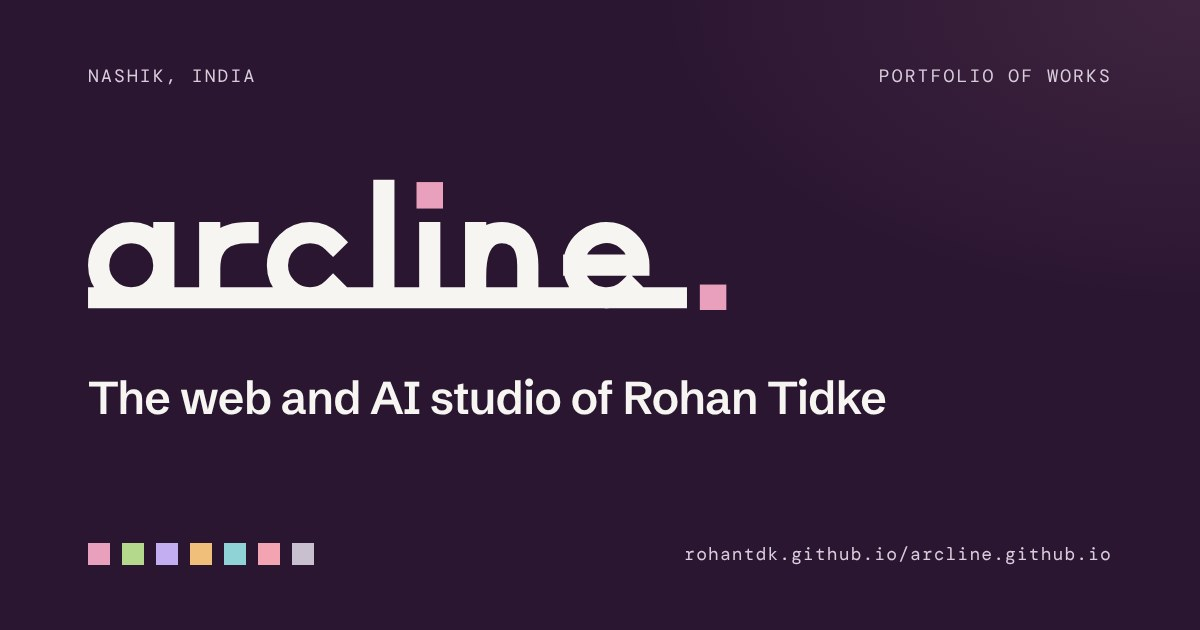
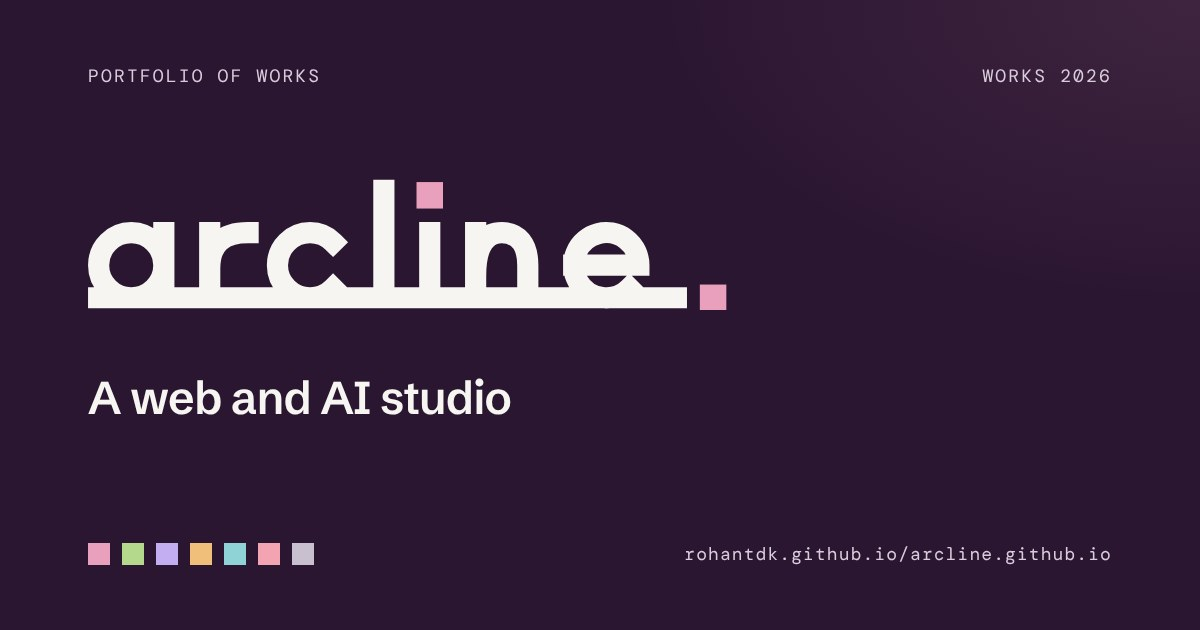
Speak as a studio, not one person; never name the studio's location
Copy moves from 'I' to 'we'/'Arcline'. Rohan is named once, as founder,
in About (and in the meta description); Arcline brings in specialist
partners when a project needs them. No team is claimed beyond that.

The studio's location is removed everywhere: hero label, About, the
Contact 'Studio' row, title and share tags, the share image, and the
docs (the palette is renamed 'Vineyard'). Client cities are dropped
from project cards, the client region from About, and the 'Marathi'
search hint is swapped for 'Next.js'. 'Clients in India and Germany'
and country-level project facts stay. Numbers and project facts are
unchanged.

Claude-Session: https://claude.ai/code/session_01XoSaEchENWHWTGNXH3eUxF

Changed region(s): [[0.0617, 0.6032, 0.74, 0.6635], [0.0617, 0.0905, 0.2775, 0.1508], [0.74, 0.0905, 0.925, 0.1508]]

diff --git a/index.html b/index.html
@@ -3,17 +3,17 @@
 <head>
   <meta charset="UTF-8" />
   <meta name="viewport" content="width=device-width, initial-scale=1.0" />
-  <title>Arcline — Web and AI studio of Rohan Tidke</title>
-  <meta name="description" content="Arcline is the web and AI studio of Rohan Tidke in Nashik, India. Thirty-two projects: client websites, Shopify stores, AI tools, mobile apps, automation and brand work, for clients in India and Germany." />
+  <title>Arcline — Web and AI studio</title>
+  <meta name="description" content="Arcline is a web and AI studio founded by Rohan Tidke. Thirty-two projects: client websites, Shopify stores, AI tools, mobile apps, automation and brand work, for clients in India and Germany." />
 
-  <meta property="og:title" content="Arcline — Web and AI studio of Rohan Tidke" />
-  <meta property="og:description" content="Thirty-two projects: client websites, Shopify stores, AI tools, mobile apps, automation and brand work. Nashik, India." />
+  <meta property="og:title" content="Arcline — Web and AI studio" />
+  <meta property="og:description" content="Thirty-two projects: client websites, Shopify stores, AI tools, mobile apps, automation and brand work." />
   <meta property="og:url" content="https://rohantdk.github.io/arcline.github.io/" />
   <meta property="og:type" content="website" />
   <meta property="og:image" content="https://rohantdk.github.io/arcline.github.io/assets/og-banner.jpg" />
   <meta property="og:image:width" content="1200" />
   <meta property="og:image:height" content="630" />
-  <meta property="og:image:alt" content="Arcline logo: the web and AI studio of Rohan Tidke, Nashik, India" />
+  <meta property="og:image:alt" content="Arcline logo: a web and AI studio" />
   <meta name="twitter:card" content="summary_large_image" />
   <meta name="theme-color" content="#2B1631" />
 
@@ -56,7 +56,7 @@
     <!-- HERO -->
     <section class="hero">
       <div class="wrap">
-        <p class="hero__meta"><span>Nashik, India</span><span>Works 2026</span></p>
+        <p class="hero__meta"><span>Works 2026</span></p>
 
         <p class="eyebrow">Portfolio of works</p>
         <h1 class="hero__title visually-hidden">Arcline</h1>
@@ -75,7 +75,7 @@
           </svg>
           <p class="mark__tip" aria-hidden="true"></p>
         </div>
-        <p class="hero__lead">The web and AI studio of Rohan Tidke</p>
+        <p class="hero__lead">A web and AI studio</p>
         <p class="hero__sub">Thirty-two projects: client websites, Shopify stores, AI tools, mobile apps, automation, and brand work.</p>
         <div class="hero__actions">
           <a class="btn btn--solid" href="#work">See the work</a>
@@ -86,7 +86,7 @@
     </section>
 
     <!-- TOOLS MARQUEE -->
-    <div class="marquee" role="region" aria-label="Tools I build with">
+    <div class="marquee" role="region" aria-label="Tools we build with">
       <div class="marquee__track">
         <ul class="marquee__list">
           <li data-cat="web">HTML · CSS · JavaScript</li>
@@ -133,11 +133,11 @@
     <section class="block" id="about" aria-labelledby="about-title">
       <div class="wrap">
         <p class="eyebrow">About</p>
-        <h2 class="block__title" id="about-title">One person, from first scope to launch day.</h2>
+        <h2 class="block__title" id="about-title">One studio, from first scope to launch day.</h2>
         <div class="about">
           <div class="about__text">
-            <p>I'm a freelance web developer and AI engineer based in Nashik, India. I build websites, Shopify stores and AI tools that work on launch day and that clients can run themselves afterwards.</p>
-            <p>Most of my clients are manufacturers, exporters and small brands across Maharashtra. <strong>I also work internationally: I built an AI risk-assessment tool for a B2B advisory firm in Germany.</strong> I work solo under the studio name Arcline.</p>
+            <p>Arcline is a web and AI studio. We build websites, Shopify stores and AI tools that work on launch day and that clients can run themselves afterwards.</p>
+            <p>Most of our clients are manufacturers, exporters and small brands. <strong>We also work internationally: we built an AI risk-assessment tool for a B2B advisory firm in Germany.</strong> Arcline was founded by Rohan Tidke, a web developer and AI engineer, and brings in specialist partners when a project needs them.</p>
           </div>
           <dl class="stats">
             <div><dt>32</dt><dd>projects in this portfolio</dd></div>
@@ -152,7 +152,7 @@
     <!-- SERVICES -->
     <section class="block block--tint" id="services" aria-labelledby="services-title">
       <div class="wrap">
-        <p class="eyebrow">What I do</p>
+        <p class="eyebrow">What we do</p>
         <h2 class="block__title" id="services-title">Six kinds of work, one standard.</h2>
         <ul class="services">
           <li data-cat="web"><h3>Websites</h3><p>Fast, hand-coded HTML, CSS and JavaScript sites with enquiry capture, SEO basics and hosting set up.</p></li>
@@ -189,7 +189,7 @@
               <button type="button" data-q="Shopify">Shopify</button>
               <button type="button" data-q="FastAPI">FastAPI</button>
               <button type="button" data-q="Gemini">Gemini</button>
-              <button type="button" data-q="Marathi">Marathi</button>
+              <button type="button" data-q="Next.js">Next.js</button>
             </p>
           </div>
         </div>
@@ -204,7 +204,7 @@
         <article class="card">
           <div class="card__top"><span class="card__num">01</span><span class="chip chip--done">live</span></div>
           <h4 class="card__title">Provectus Engineering Solutions</h4>
-          <p class="card__meta">Engineering and fabrication · Nashik</p>
+          <p class="card__meta">Engineering and fabrication</p>
           <p class="card__desc">Seven-page corporate site for an engineering firm building SPM machines, sheet-metal work and agricultural equipment. Enquiries land in a Google Sheet with an instant email alert.</p>
           <p class="card__stack">HTML · CSS · JavaScript · Netlify CI · Google Apps Script</p>
           <a class="card__link" href="https://provectuseng.com/" data-peek="assets/previews/provectus.webp" target="_blank" rel="noopener noreferrer">provectuseng.com <span aria-hidden="true">↗</span></a>
@@ -212,7 +212,7 @@
         <article class="card">
           <div class="card__top"><span class="card__num">02</span><span class="chip chip--done">live</span></div>
           <h4 class="card__title">Rushikesh Enterprises</h4>
-          <p class="card__meta">Auto-parts manufacturing · Nashik</p>
+          <p class="card__meta">Auto-parts manufacturing</p>
           <p class="card__desc">Company website for an auto-parts manufacturer, won by referral from an earlier client. A hand-coded static build with no framework overhead and no plugins to maintain.</p>
           <p class="card__stack">HTML · CSS · JavaScript</p>
           <a class="card__link" href="https://rushikeshentp.com/" data-peek="assets/previews/rushikesh.webp" target="_blank" rel="noopener noreferrer">rushikeshentp.com <span aria-hidden="true">↗</span></a>
@@ -220,7 +220,7 @@
         <article class="card">
           <div class="card__top"><span class="card__num">03</span><span class="chip chip--done">live</span></div>
           <h4 class="card__title">Scout Bags India</h4>
-          <p class="card__meta">Canvas bags · Mumbai · est. 1990</p>
+          <p class="card__meta">Canvas bags · est. 1990</p>
           <p class="card__desc">Catalogue and ordering site for a canvas-bag maker. Product cards with variant carousels, and a UPI QR checkout that hands a pre-filled order confirmation to WhatsApp.</p>
           <p class="card__stack">HTML · CSS · JavaScript · UPI QR flow · WhatsApp handoff · cPanel</p>
           <a class="card__link" href="https://scoutbagsindia.com/" data-peek="assets/previews/scoutbags.webp" target="_blank" rel="noopener noreferrer">scoutbagsindia.com <span aria-hidden="true">↗</span></a>
@@ -277,7 +277,7 @@
         <article class="card">
           <div class="card__top"><span class="card__num">09</span><span class="chip chip--done">live</span></div>
           <h4 class="card__title">Preesa Global Ventures</h4>
-          <p class="card__meta">Handmade soaps and artisan decor · Pune</p>
+          <p class="card__meta">Handmade soaps and artisan decor</p>
           <p class="card__desc">Shopify store taken from a blank theme to launch: custom brand system, Razorpay checkout, GST-inclusive pricing by product type, Shiprocket, and seven international shipping zones.</p>
           <p class="card__stack">Shopify Horizon · Liquid · CSS · JavaScript · Razorpay · Shiprocket</p>
           <a class="card__link" href="https://preesaglobalventures.com/" data-peek="assets/previews/preesa.webp" target="_blank" rel="noopener noreferrer">preesaglobalventures.com <span aria-hidden="true">↗</span></a>
@@ -285,7 +285,7 @@
         <article class="card">
           <div class="card__top"><span class="card__num">10</span><span class="chip chip--open">in build</span></div>
           <h4 class="card__title">Vrinda Mart</h4>
-          <p class="card__meta">Medical equipment distributor · Navi Mumbai</p>
+          <p class="card__meta">Medical equipment distributor</p>
           <p class="card__desc">Redesign of a nebuliser distributor's store, from a pink fashion theme to a navy-and-teal trade look aimed at wholesale buyers. Home, catalogue, product and contact pages rebuilt.</p>
           <p class="card__stack">Shopify · Liquid · custom CSS patch layer</p>
         </article>
@@ -300,7 +300,7 @@
         <article class="card">
           <div class="card__top"><span class="card__num">12</span><span class="chip chip--open">scoping</span></div>
           <h4 class="card__title">Multilingual Store Migration</h4>
-          <p class="card__meta">Client store · India</p>
+          <p class="card__meta">Client store</p>
           <p class="card__desc">Migration of a static website into a custom Shopify theme, with a redesign. Four storefront languages (English, Spanish, French, Italian) and international card payments through Razorpay.</p>
           <p class="card__stack">Shopify Liquid · Shopify Markets · Translate &amp; Adapt · Razorpay</p>
         </article>
@@ -415,7 +415,7 @@
           <div class="card__top"><span class="card__num">24</span><span class="chip chip--open">mvp</span></div>
           <h4 class="card__title">Personal OS</h4>
           <p class="card__meta">Personal AI command centre</p>
-          <p class="card__desc">My own AI command centre for running day-to-day work from one place. The MVP is built; Gmail and web search connections come next.</p>
+          <p class="card__desc">Our own AI command centre for running the studio's day-to-day work from one place. The MVP is built; Gmail and web search connections come next.</p>
           <p class="card__stack">Built with Claude Code</p>
         </article>
       </div>
@@ -463,14 +463,14 @@
       <header class="cat__head">
         <p class="cat__index">Section 07 / 07 <span>4 projects</span></p>
         <h3 class="cat__title" id="studio-title">Studio, systems and experiments</h3>
-        <p class="cat__sub">My own studio, the system I build with, and things made to learn.</p>
+        <p class="cat__sub">Our own studio, the system we build with, and things made to learn.</p>
       </header>
       <div class="cards">
         <article class="card">
           <div class="card__top"><span class="card__num">29</span><span class="chip chip--done">live</span></div>
           <h4 class="card__title">Arcline</h4>
           <p class="card__meta">Studio brand and portfolio site</p>
-          <p class="card__desc">Identity and portfolio site for my studio, built from the 2026 works brochure: one page, seven colour-coded categories, every project with its stack and status. Hand-coded with no framework.</p>
+          <p class="card__desc">Identity and portfolio site for the studio, built from the 2026 works brochure: one page, seven colour-coded categories, every project with its stack and status. Hand-coded with no framework.</p>
           <p class="card__stack">HTML · CSS · vanilla JavaScript · GitHub Pages</p>
         </article>
         <article class="card">
@@ -520,7 +520,7 @@
       <div class="wrap">
         <p class="eyebrow eyebrow--light">Contact</p>
         <h2 class="contact__title" id="contact-title">Start a project.</h2>
-        <p class="contact__lead">Tell me what you need built. I reply with a written scope and a fixed quotation.</p>
+        <p class="contact__lead">Tell us what you need built. We reply with a written scope and a fixed quotation.</p>
         <div class="contact__mark" aria-hidden="true">
           <svg class="mark mark--band" viewBox="0 0 520 320">
             <g class="mark__a" transform="translate(21.5 60.5) scale(3)"><path class="mark__line" pathLength="1" style="--d:.25s" d="M-6.5 70 H136.17" /><path class="mark__bowl" pathLength="1" style="--d:.45s" d="M40 50 A20 20 0 1 0 0 50 A20 20 0 1 0 40 50" /><path class="mark__stem" pathLength="1" style="--d:.6s" d="M40 23.5 V70" /></g>
@@ -529,9 +529,8 @@
         </div>
         <dl class="contact__grid">
           <div><dt>Email</dt><dd><a href="mailto:tidkerohan8228@gmail.com">tidkerohan8228@gmail.com</a> <button class="copy" type="button" data-copy="tidkerohan8228@gmail.com" hidden>Copy</button></dd></div>
-          <div><dt>WhatsApp</dt><dd><a href="https://wa.me/918857852631" target="_blank" rel="noopener noreferrer">Message me</a></dd></div>
+          <div><dt>WhatsApp</dt><dd><a href="https://wa.me/918857852631" target="_blank" rel="noopener noreferrer">Message us</a></dd></div>
           <div><dt>GitHub</dt><dd><a href="https://github.com/rohantdk" target="_blank" rel="noopener noreferrer">rohantdk</a></dd></div>
-          <div><dt>Studio</dt><dd>Arcline · Nashik, Maharashtra, India</dd></div>
         </dl>
       </div>
     </section>

diff --git a/style.css b/style.css
@@ -1,6 +1,6 @@
 /* ═══════════════════════════════════════════════════
    ARCLINE — Works 2026
-   Palette "Nashik Valley": aubergine ink, wine accent, vine green,
+   Palette "Vineyard": aubergine ink, wine accent, vine green,
    on a soft paper ground. Each work category carries its own colour
    (--c / --c-soft on light, --c-light on the aubergine bands).
    Schibsted Grotesk (headings) · DM Sans (body) · DM Mono (labels)
@@ -176,6 +176,7 @@ a { color: inherit; }
   color: var(--muted);
   margin-bottom: clamp(64px, 12vw, 140px);
 }
+.hero__meta span:last-child { margin-left: auto; }
 /* the name is the logo (in .hero__mark); the h1 keeps it for search and screen readers */
 .visually-hidden {
   position: absolute !important; width: 1px; height: 1px; margin: -1px; padding: 0; border: 0;
@@ -352,7 +353,7 @@ a { color: inherit; }
 }
 .contact__lead { color: var(--on-band); font-size: clamp(18px, 1.8vw, 21px); max-width: 30em; margin-bottom: clamp(48px, 6vw, 72px); }
 .contact__grid {
-  display: grid; grid-template-columns: repeat(4, 1fr); gap: 24px;
+  display: grid; grid-template-columns: repeat(3, 1fr); gap: 24px;
   border-top: 1px solid rgba(255,255,255,0.18); padding-top: 24px;
 }
 .contact__grid dt {

diff --git a/CLAUDE.md b/CLAUDE.md
@@ -1,6 +1,6 @@
 # Arcline — project memory
 
-Portfolio site of Rohan Tidke's web and AI studio, Arcline (Nashik, India). One static page: `index.html`,
+Portfolio site of Arcline, the web and AI studio founded by Rohan Tidke. One static page: `index.html`,
 `style.css`, `script.js`, plus `assets/`. No framework, no build step, no dependencies. Live at
 https://rohantdk.github.io/arcline.github.io/ (GitHub Pages, published from `main`).
 
@@ -63,7 +63,7 @@ and `dismissPopups` on, `waitFor` 2500. Resize to 640 × 400 WebP (quality 80) i
 
 - Kept: the magnetic buttons (hero buttons and nav "Start a project" lean toward the cursor). The owner wanted
   to try them; don't remove without asking.
-- Removed at the owner's request: the live IST clock in the hero, the Nashik coordinates under the old hero arc, and
+- Removed at the owner's request: the live IST clock in the hero, the city coordinates under the old hero arc, and
   the degree line in About. Don't bring them back.
 - Kept: the four stats in About (32, 14, 5, 2).
 - Live-site previews show on hover anywhere on a card with a live site, after a 250 ms pause (instantly on the
@@ -73,6 +73,12 @@ and `dismissPopups` on, `waitFor` 2500. Resize to 640 × 400 WebP (quality 80) i
   clicked; the owner chose this over leaving them inert.
 - Vrinda Mart: vrindamart.site showed Shopify's "store unavailable" page (October 2026), so its link was
   removed and it has no preview. The card stays. Restore the link only when the owner says the store is back.
+- Agency voice (October 2026): the site speaks as the studio ("we", "Arcline"), not one person. Rohan is named
+  once, as founder, in About (and in the meta description). Arcline "brings in specialist partners when a project
+  needs them"; never claim a team, team size or roles beyond that.
+- Never say where the studio is: no city, state or address anywhere (page, meta, share image, docs). Client
+  cities were removed from cards and the client region from About; "Clients in India and Germany" and
+  country-level mentions in project copy stay. The +91 WhatsApp number is the one unavoidable hint.
 - Advised against, owner agreed: a loading screen, a custom cursor, scroll-jacking or heavy parallax.
 
 - Logo (October 2026): "One Line" in a tough weight (thick stroke, square ends, square wine dots), chosen after

diff --git a/README.md b/README.md
@@ -1,6 +1,6 @@
 # Arcline
 
-The web and AI studio of Rohan Tidke, Nashik. Plain HTML, CSS and JavaScript, hosted on GitHub Pages at
+Arcline, a web and AI studio founded by Rohan Tidke. Plain HTML, CSS and JavaScript, hosted on GitHub Pages at
 https://rohantdk.github.io/arcline.github.io/
 
 ## Page structure
@@ -59,7 +59,7 @@ is the symbol tile. The hero and Contact show the "a." symbol drawn into the pag
 
 ## Colours
 
-Palette "Nashik Valley", defined as tokens at the top of `style.css`: aubergine ink `#22162A`,
+Palette "Vineyard", defined as tokens at the top of `style.css`: aubergine ink `#22162A`,
 wine accent `#7B2346`, vine green `#4E7428`, paper `#F6F5F2`, and the dark band `#2B1631`.
 Each work category has a strong, a soft and a light colour (`--web`, `--web-soft`, `--web-light`, and so on).
 Any element with `data-cat="…"` picks them up as `--c` (text and marks on light), `--c-soft` (chip and
